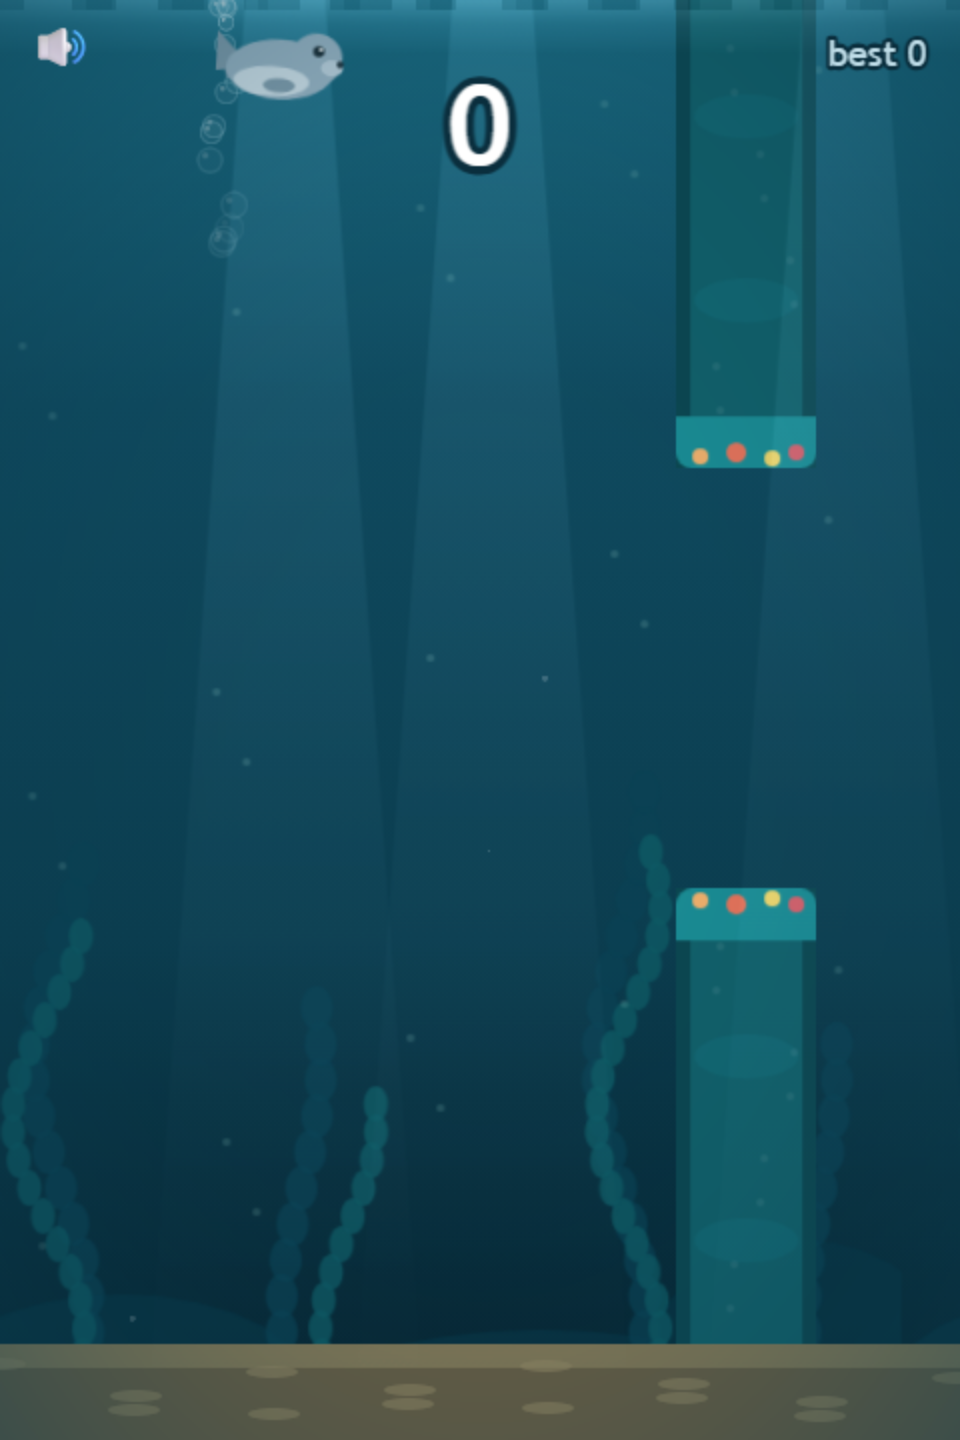
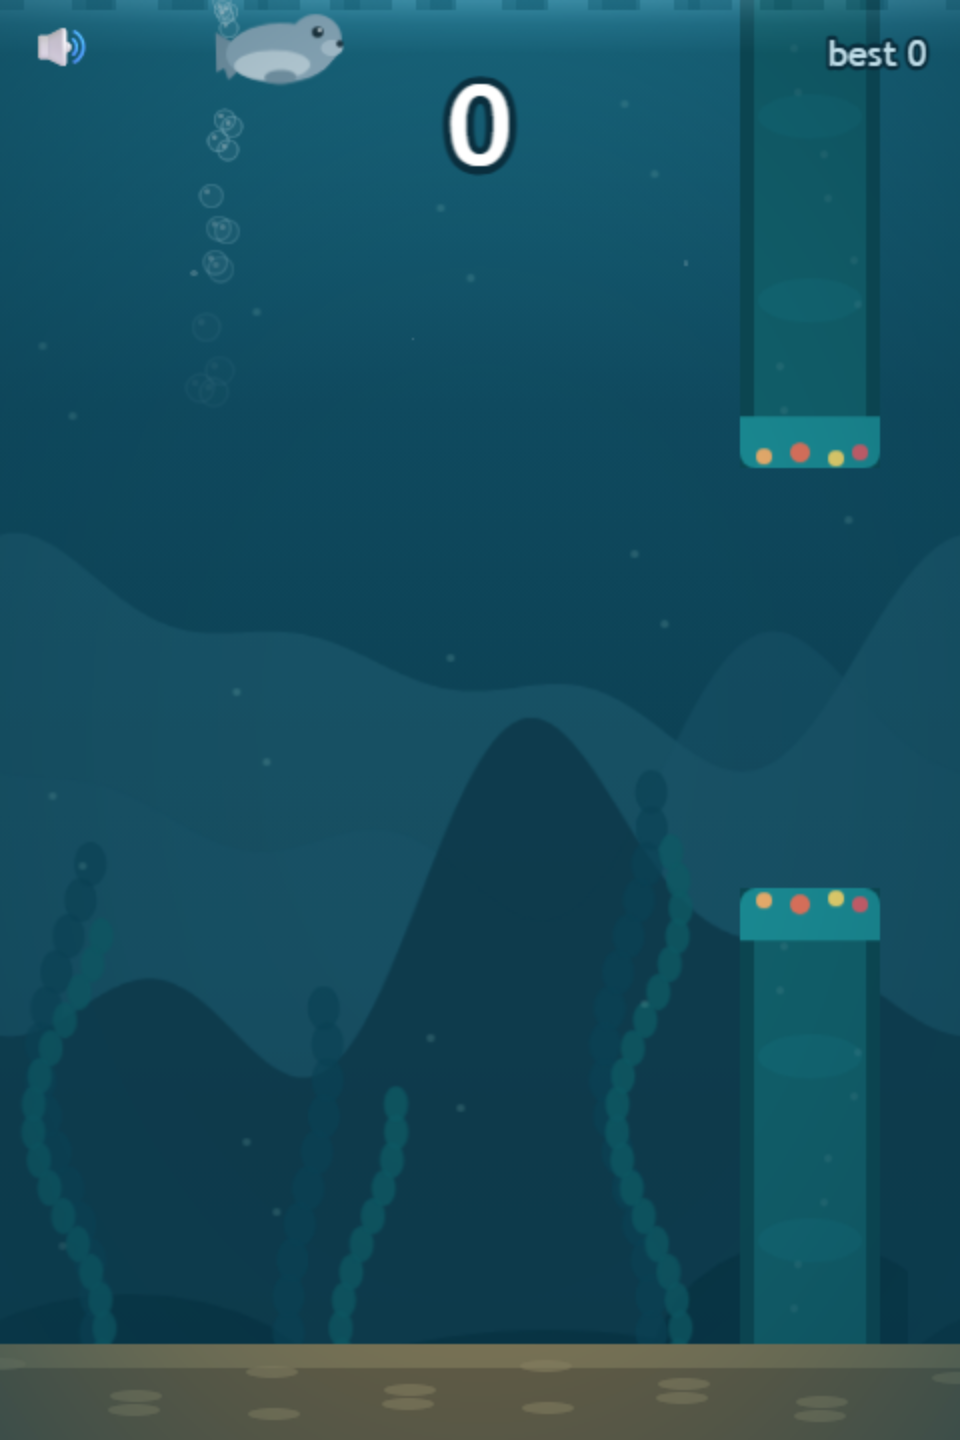
bg: replace caustic light shafts with distant seamount ridges
Remove the "spotlight shining down" light-ray shafts from the in-game
background and introduce a far-background seamount silhouette layer —
three receding sine-based ridges on a seamless 2xW canvas texture,
scrolling at 0.05x parallax behind bgFar/bgMid.

- BootScene.makeSeamounts(): new 'seamounts' texture, integer-frequency
  sines for seamless horizontal tiling
- GameScene: bgMountains tileSprite at depth 0.5 with mode tint; light
  shafts removed from addEffects() (vignette retained)
- Menu/Pace/Mode/CharacterSelect/Sandbox: seamounts image behind bgFar

All 112 unit/sim tests green; Classic(Seal) golden master untouched.

diff --git a/src/scenes/GameScene.ts b/src/scenes/GameScene.ts
@@ -23,6 +23,7 @@ export class GameScene extends Phaser.Scene {
   private sim!: Simulation;
   private player!: PlayerView;
   private gateViews: GateView[] = [];
+  private bgMountains!: Phaser.GameObjects.TileSprite;
   private bgFar!: Phaser.GameObjects.TileSprite;
   private bgMid!: Phaser.GameObjects.TileSprite;
   private bubbles!: Phaser.GameObjects.Particles.ParticleEmitter;
@@ -88,6 +89,11 @@ export class GameScene extends Phaser.Scene {
     this.add
       .image(D.worldWidth / 2, D.worldHeight / 2, 'bgGradient')
       .setDepth(0)
+      .setTint(MODE_TINT[mode.id] ?? 0xffffff);
+    // Distant seamounts, graded with the mode tint, drifting slowest of all.
+    this.bgMountains = this.add
+      .tileSprite(D.worldWidth / 2, D.worldHeight / 2, D.worldWidth, D.worldHeight, 'seamounts')
+      .setDepth(0.5)
       .setTint(MODE_TINT[mode.id] ?? 0xffffff);
     this.bgFar = this.add.tileSprite(D.worldWidth / 2, D.worldHeight / 2, D.worldWidth, D.worldHeight, 'bgFar').setDepth(1);
     this.bgMid = this.add.tileSprite(D.worldWidth / 2, D.worldHeight / 2, D.worldWidth, D.worldHeight, 'bgMid').setDepth(2);
@@ -200,38 +206,12 @@ export class GameScene extends Phaser.Scene {
 
     // A3: real postFX vignette on WebGL (replaces the static texture there);
     // canvas renderer keeps the texture fallback below.
+    // Light shafts removed — distant seamounts (added in create()) carry the
+    // background now. Keep only the depth vignette.
     const webgl = this.game.renderer.type === Phaser.WEBGL;
     if (webgl) {
       this.cameras.main.postFX.addVignette(0.5, 0.5, 0.92, 0.38);
-    }
-    for (const [x, sway, dur] of [
-      [120, 26, 5200],
-      [280, -34, 6800],
-      [400, 22, 6000],
-    ] as const) {
-      const ray = this.add
-        .image(x, 0, 'ray')
-        .setOrigin(0.5, 0)
-        .setBlendMode(Phaser.BlendModes.ADD)
-        .setDepth(7)
-        .setAlpha(0.8);
-      // F-5: reduced-motion users get the light shafts static, not swaying.
-      if (!this.calmMotion) {
-        this.tweens.add({
-          targets: ray,
-          x: x + sway,
-          alpha: 0.45,
-          duration: dur,
-          yoyo: true,
-          repeat: -1,
-          ease: 'Sine.easeInOut',
-        });
-      } else {
-        ray.setAlpha(0.5);
-      }
-      this.fx.push(ray);
-    }
-    if (!webgl) {
+    } else {
       this.fx.push(this.add.image(D.worldWidth / 2, D.worldHeight / 2, 'vignette').setDepth(30));
     }
   }
@@ -337,6 +317,7 @@ export class GameScene extends Phaser.Scene {
       }
     }
 
+    this.bgMountains.tilePositionX += speed * 0.05 * (delta / 1000);
     this.bgFar.tilePositionX += speed * 0.12 * (delta / 1000);
     this.bgMid.tilePositionX += speed * 0.35 * (delta / 1000);
 

diff --git a/src/scenes/BootScene.ts b/src/scenes/BootScene.ts
@@ -40,6 +40,7 @@ export class BootScene extends Phaser.Scene {
     this.makeDot();
     this.makeLightAndVignette();
     this.makeDepthAndShimmer();
+    this.makeSeamounts();
 
     const store = new LocalStorageStore();
     this.registry.set('store', store);
@@ -402,6 +403,42 @@ export class BootScene extends Phaser.Scene {
       ctx.fillRect(0, 0, W, H);
       vig.refresh();
     }
+  }
+
+  /**
+   * Distant seamounts — three receding silhouette ridges with underwater
+   * atmospheric perspective (far = hazier, bluer, fainter). Replaces the
+   * caustic light shafts. Built from integer-frequency sines so the texture
+   * tiles seamlessly and can parallax-scroll (2× width for a longer loop).
+   */
+  private makeSeamounts(): void {
+    const TW = W * 2;
+    const cv = this.textures.createCanvas('seamounts', TW, H);
+    if (!cv) return;
+    const ctx = cv.getContext();
+
+    const ridge = (baseY: number, amp: number, fill: string, seed: number): void => {
+      ctx.beginPath();
+      ctx.moveTo(0, H);
+      for (let x = 0; x <= TW; x++) {
+        const t = x / TW;
+        const n =
+          0.5 * (0.5 + 0.5 * Math.sin(2 * Math.PI * 2 * t + seed)) +
+          0.3 * (0.5 + 0.5 * Math.sin(2 * Math.PI * 4 * t + seed * 1.7)) +
+          0.2 * (0.5 + 0.5 * Math.sin(2 * Math.PI * 6 * t + seed * 2.6));
+        ctx.lineTo(x, baseY - amp * n);
+      }
+      ctx.lineTo(TW, H);
+      ctx.closePath();
+      ctx.fillStyle = fill;
+      ctx.fill();
+    };
+
+    // far → near: back ridge fades toward the water haze; front reads darker.
+    ridge(H * 0.56, 150, 'rgba(41, 104, 126, 0.36)', 0.6);
+    ridge(H * 0.68, 185, 'rgba(24, 82, 103, 0.52)', 2.1);
+    ridge(H * 0.82, 240, 'rgba(11, 54, 70, 0.78)', 3.9);
+    cv.refresh();
   }
 
   private makeDot(): void {

diff --git a/src/scenes/CharacterSelectScene.ts b/src/scenes/CharacterSelectScene.ts
@@ -39,6 +39,7 @@ export class CharacterSelectScene extends Phaser.Scene {
 
   create(): void {
     this.add.image(W / 2, H / 2, 'bgGradient');
+    this.add.image(W / 2, H / 2, 'seamounts');
     this.add.tileSprite(W / 2, H / 2, W, H, 'bgFar');
     this.add.tileSprite(W / 2, H / 2, W, H, 'bgMid');
     this.add.image(W / 2, H - 24, 'sand');

diff --git a/src/scenes/ModeSelectScene.ts b/src/scenes/ModeSelectScene.ts
@@ -21,6 +21,7 @@ export class ModeSelectScene extends Phaser.Scene {
 
   create(): void {
     this.add.image(W / 2, H / 2, 'bgGradient');
+    this.add.image(W / 2, H / 2, 'seamounts');
     this.add.tileSprite(W / 2, H / 2, W, H, 'bgFar');
     this.add.tileSprite(W / 2, H / 2, W, H, 'bgMid');
     this.add.image(W / 2, H - 24, 'sand');

diff --git a/src/scenes/PaceSelectScene.ts b/src/scenes/PaceSelectScene.ts
@@ -28,6 +28,7 @@ export class PaceSelectScene extends Phaser.Scene {
 
   create(): void {
     this.add.image(W / 2, H / 2, 'bgGradient');
+    this.add.image(W / 2, H / 2, 'seamounts');
     this.add.tileSprite(W / 2, H / 2, W, H, 'bgFar');
     this.add.tileSprite(W / 2, H / 2, W, H, 'bgMid');
     this.add.image(W / 2, H - 24, 'sand');

diff --git a/src/scenes/SandboxScene.ts b/src/scenes/SandboxScene.ts
@@ -50,6 +50,7 @@ export class SandboxScene extends Phaser.Scene {
     this.simTime = 0;
 
     this.add.image(W / 2, H / 2, 'bgGradient');
+    this.add.image(W / 2, H / 2, 'seamounts');
     this.add.tileSprite(W / 2, H / 2, W, H, 'bgFar');
     this.add.tileSprite(W / 2, H / 2, W, H, 'bgMid');
     this.add.image(W / 2, H - 24, 'sand');

diff --git a/src/scenes/MenuScene.ts b/src/scenes/MenuScene.ts
@@ -15,6 +15,7 @@ export class MenuScene extends Phaser.Scene {
 
   create(): void {
     this.add.image(W / 2, H / 2, 'bgGradient');
+    this.add.image(W / 2, H / 2, 'seamounts');
     this.add.tileSprite(W / 2, H / 2, W, H, 'bgFar');
     this.add.tileSprite(W / 2, H / 2, W, H, 'bgMid');
     this.add.image(W / 2, H - 24, 'sand');
